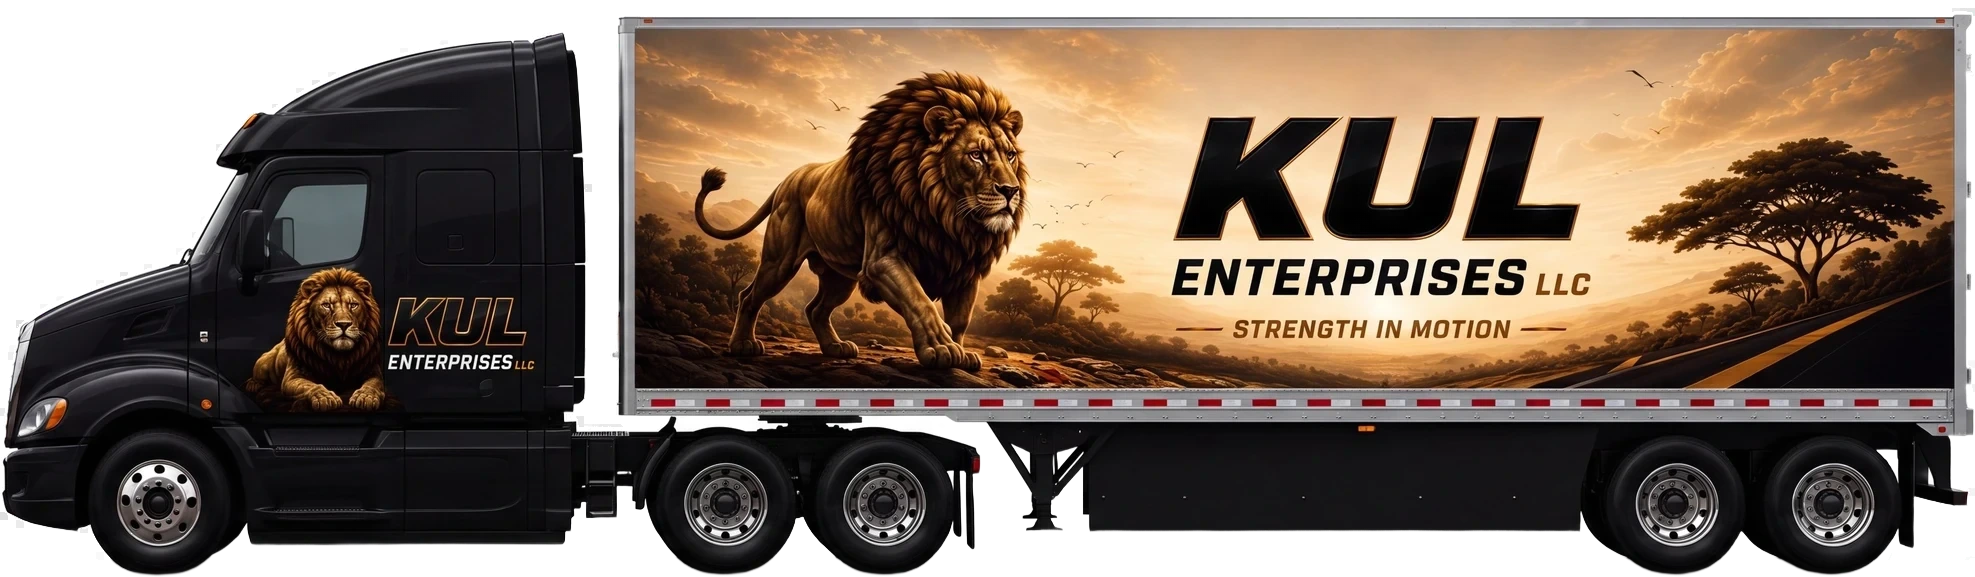
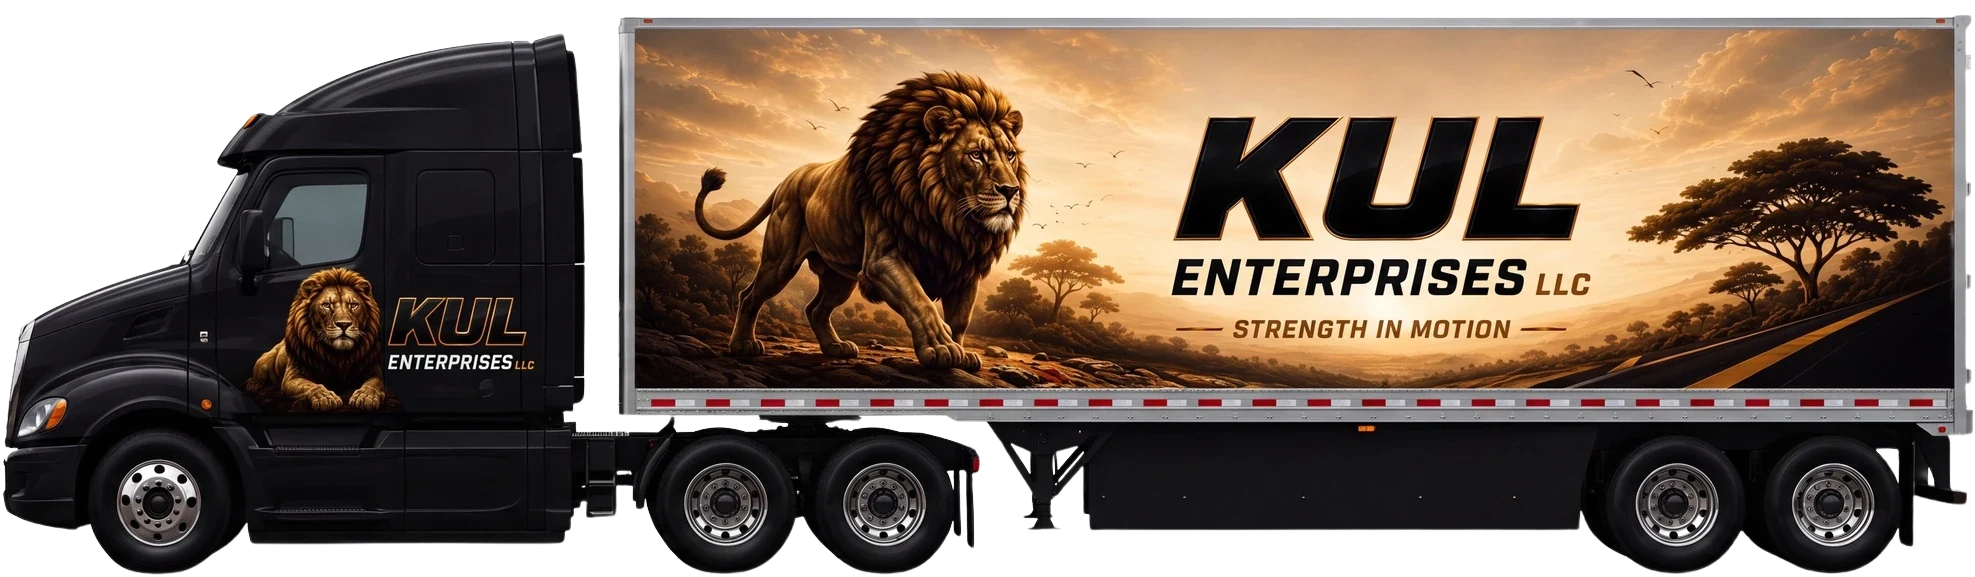
Let the truck drive in when you reach it, and give it the right cutout
Every entrance on the site carried its own timer that showed the element after
2600ms wherever it happened to be, so anything below the fold played to an empty
screen and was already finished by the time a reader scrolled down to it. The
tractor on the home page was the visible casualty. It is drawn facing left and
rolls in from the right across a fifth of its own length, and it was spending
that entrance two and a half seconds after load while sitting 1466px below a
391px viewport. Scrolling to it showed a truck that had already arrived.

The backstop now only rescues what is actually on screen. A thing nobody can see
cannot be stranded, so it does not need saving, and saving it throws away the
entrance it is owed. What the backstop was written for is the opposite case, an
element in view that is still hidden because the observer never reported it, and
that is untouched.

It is also one sweep for the whole document rather than one timer per element,
for the same reason there is one observer rather than 87. It reads only the
elements still waiting and stops itself when none are left, so a settled page
runs no timer at all. Measured on the home page: the tractor sits unshown
through four seconds of stillness below the fold, then runs kul-rv-roll on
arrival.

The truck artwork is the client's own file. Same 1975 by 577 as the one it
replaces so nothing reflows, a cleaner cutout with fully transparent corners,
[…]

diff --git a/components/k/Reveal.tsx b/components/k/Reveal.tsx
@@ -71,10 +71,15 @@ import type { ReactNode } from "react";
  *      the finished state when they land. The stall that started all of this
  *      is not reachable from here.
  *
- *   3. THERE IS A BACKSTOP, in `arm()` below. Anything still unplayed after
- *      SAFETY_MS is shown regardless of whether the observer ever fired, and
- *      anything unplayed when a hidden tab becomes visible again is shown at
- *      once. An entrance is worth having; it is not worth a paragraph.
+ *   3. THERE IS A BACKSTOP, the shared sweep below. Anything ON SCREEN and
+ *      still unplayed is shown regardless of whether the observer ever fired,
+ *      swept every SAFETY_MS and again the moment a hidden tab comes back. An
+ *      entrance is worth having; it is not worth a paragraph.
+ *
+ *      It deliberately does not touch anything off screen. Rescuing an element
+ *      nobody can see does not save a reader from anything, and it throws that
+ *      element's entrance away before they ever scroll to it. See the note on
+ *      the sweep for the truck this broke.
  *
  * ANYONE WHO HAS ASKED THEIR COMPUTER TO REDUCE MOTION sees none of it, and
  * that is enforced twice: the inline script does not set the attribute, so
@@ -93,7 +98,8 @@ type RevealProps = {
 };
 
 /**
- * How long anything may stay hidden waiting to be noticed, in milliseconds.
+ * How often the backstop sweeps for anything on screen that is still hidden,
+ * in milliseconds.
  *
  * Generous, because it is a safety net and not a schedule: a reader on a slow
  * connection should get the entrance rather than have it snatched away. But it
@@ -122,6 +128,52 @@ function show(el: HTMLElement) {
   el.setAttribute("data-shown", "");
 }
 
+/** Is any part of this element on the screen right now. */
+function onScreen(el: HTMLElement) {
+  const r = el.getBoundingClientRect();
+  return r.top < window.innerHeight && r.bottom > 0;
+}
+
+/**
+ * ============================================================================
+ * THE BACKSTOP ONLY RESCUES WHAT IS ACTUALLY ON SCREEN, AND THAT IS THE POINT.
+ * ============================================================================
+ *
+ * It used to be one timer per element that called show() after SAFETY_MS no
+ * matter where that element was, which quietly broke every entrance below the
+ * fold. The tractor on the home page was the obvious casualty: it is drawn
+ * facing left and rolls in from the right across a fifth of its own length, and
+ * it was spending that entrance two and a half seconds after load, while it sat
+ * a couple of thousand pixels below the fold. By the time anybody scrolled down
+ * to it the truck had already arrived, so the whole animation only ever played
+ * to an empty screen. The client asked why the truck does not drive in.
+ *
+ * A thing nobody can see cannot be stranded, so it does not need rescuing. What
+ * needs rescuing is an element that IS on screen and is still hidden, which is
+ * the failure the backstop was written for in the first place.
+ *
+ * ONE SWEEP FOR THE WHOLE DOCUMENT, for the same reason there is one observer:
+ * thirty timers each reading their own rect is thirty forced layouts. This
+ * reads only the elements still waiting, and it stops itself the moment none
+ * are left, so a settled page runs no timer at all.
+ */
+let sweepTimer = 0;
+
+function sweep() {
+  for (const el of [...waiting]) {
+    if (onScreen(el)) show(el);
+  }
+  if (waiting.size === 0 && sweepTimer) {
+    window.clearInterval(sweepTimer);
+    sweepTimer = 0;
+  }
+}
+
+function startSweeping() {
+  if (sweepTimer) return;
+  sweepTimer = window.setInterval(sweep, SAFETY_MS);
+}
+
 function ensureObserver() {
   if (observer || typeof IntersectionObserver === "undefined") return;
 
@@ -136,12 +188,10 @@ function ensureObserver() {
 
   // THE SECOND BACKSTOP. A tab that was hidden while its reveals were queued
   // comes back to a page that has already decided they are off screen, and on
-  // a short page nothing will scroll again to correct it. Everything still
-  // waiting is simply shown.
+  // a short page nothing will scroll again to correct it. Anything on screen
+  // and still waiting is shown at once rather than waiting for the next sweep.
   document.addEventListener("visibilitychange", () => {
-    if (document.visibilityState === "visible") {
-      for (const el of [...waiting]) show(el);
-    }
+    if (document.visibilityState === "visible") sweep();
   });
 }
 
@@ -174,12 +224,12 @@ export default function Reveal({
     waiting.add(el);
     observer.observe(el);
 
-    // THE FIRST BACKSTOP. If the observer never reports this element, for any
-    // reason at all, it stops being hidden.
-    const safety = window.setTimeout(() => show(el), SAFETY_MS);
+    // THE FIRST BACKSTOP. If the observer never reports this element, the sweep
+    // above shows it anyway, but only once it is somewhere a reader could see
+    // it. Off screen it keeps its entrance and waits.
+    startSweeping();
 
     return () => {
-      window.clearTimeout(safety);
       waiting.delete(el);
       observer?.unobserve(el);
     };
@@ -237,10 +287,11 @@ export function RuleDraw({
 
     waiting.add(el);
     observer.observe(el);
-    const safety = window.setTimeout(() => show(el), SAFETY_MS);
+    // Same shared sweep as Reveal, so a rule below the fold keeps its draw
+    // instead of scaling itself open where nobody is looking.
+    startSweeping();
 
     return () => {
-      window.clearTimeout(safety);
       waiting.delete(el);
       observer?.unobserve(el);
     };
